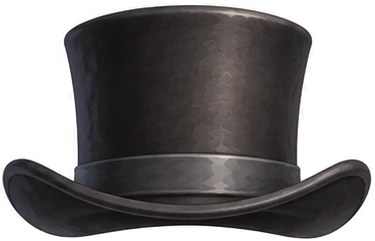
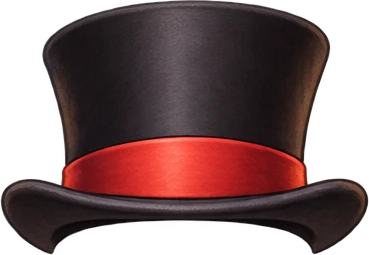
Replace hats with a redo that fixes head-coverage sizing
New art from a revised brief that gave the generator explicit measurements
(head width = ~2.3-2.5x eye-spacing) rather than vague 'cover the head'
language, plus the reference bird image to work from.

Sizing changed from the old dual width/height cap to a single fixed
width (60 units) matching the bird's actual measured head width, centred
on the real eye-centre x-position - every hat now sized consistently
against the head it's actually worn on, not against its own arbitrary
aspect ratio. Fixes the Ski Hat and Cozy Beanie specifically, which
previously sat like a small pom-pom on the crown instead of covering the
head ear-to-ear - both now have visibly wider coverage in the new art
(the beanie's/ski hat's own brim is wider) and read correctly at the new
sizing.

No hats needed the back-layer split (none show back-of-hat geometry at
this front-on angle), so no layering changes needed this round.

Verified all 12 individually against the real bird art before pushing.

diff --git a/accessories.py b/accessories.py
@@ -42,7 +42,7 @@ ACCESSORIES = {
         "cost": 20,
         "category": "hats",
         "tile_viewbox": "26 -3 48 34",
-        "svg": '<g transform="rotate(-8 50 26)"><image xlink:href="/static/accessories/hat_top_hat.webp" href="/static/accessories/hat_top_hat.webp" x="25.39" y="-1" width="49.23" height="31.64"/></g>',
+        "svg": '<g transform="rotate(-8 50 26)"><image xlink:href="/static/accessories/hat_top_hat.webp" href="/static/accessories/hat_top_hat.webp" x="21.73" y="-1" width="60" height="41.46"/></g>',
     },
     "golden_crown": {
         "name": "Golden Crown",
@@ -50,7 +50,7 @@ ACCESSORIES = {
         "cost": 75,
         "category": "hats",
         "tile_viewbox": "25 -3 50 34",
-        "svg": '<g transform="rotate(6 50 26)"><image xlink:href="/static/accessories/hat_golden_crown.webp" href="/static/accessories/hat_golden_crown.webp" x="23.86" y="-1" width="52.27" height="31.64"/></g>',
+        "svg": '<g transform="rotate(6 50 26)"><image xlink:href="/static/accessories/hat_golden_crown.webp" href="/static/accessories/hat_golden_crown.webp" x="21.73" y="-1" width="60" height="46.31"/></g>',
     },
     "flower_crown": {
         "name": "Flower Crown",
@@ -58,7 +58,7 @@ ACCESSORIES = {
         "cost": 20,
         "category": "hats",
         "tile_viewbox": "15 -3 70 34",
-        "svg": '<g transform="rotate(-5 50 26)"><image xlink:href="/static/accessories/hat_flower_crown.webp" href="/static/accessories/hat_flower_crown.webp" x="13.18" y="-1" width="73.64" height="31.64"/></g>',
+        "svg": '<g transform="rotate(-5 50 26)"><image xlink:href="/static/accessories/hat_flower_crown.webp" href="/static/accessories/hat_flower_crown.webp" x="21.73" y="-1" width="60" height="32.77"/></g>',
     },
     "deerstalker_hat": {
         "name": "Deerstalker Hat",
@@ -66,7 +66,7 @@ ACCESSORIES = {
         "cost": 20,
         "category": "hats",
         "tile_viewbox": "25 -3 50 34",
-        "svg": '<g transform="rotate(-6 50 26)"><image xlink:href="/static/accessories/hat_deerstalker_hat.webp" href="/static/accessories/hat_deerstalker_hat.webp" x="24.78" y="-1" width="50.44" height="31.64"/></g>',
+        "svg": '<g transform="rotate(-6 50 26)"><image xlink:href="/static/accessories/hat_deerstalker_hat.webp" href="/static/accessories/hat_deerstalker_hat.webp" x="21.73" y="-1" width="60" height="42.61"/></g>',
     },
     "baseball_cap": {
         "name": "Baseball Cap",
@@ -74,7 +74,7 @@ ACCESSORIES = {
         "cost": 10,
         "category": "hats",
         "tile_viewbox": "27 -3 46 34",
-        "svg": '<g transform="rotate(-9 50 26)"><image xlink:href="/static/accessories/hat_baseball_cap.webp" href="/static/accessories/hat_baseball_cap.webp" x="27.16" y="-1" width="45.67" height="31.64"/></g>',
+        "svg": '<g transform="rotate(-9 50 26)"><image xlink:href="/static/accessories/hat_baseball_cap.webp" href="/static/accessories/hat_baseball_cap.webp" x="21.73" y="-1" width="60" height="37.72"/></g>',
     },
     "sun_hat": {
         "name": "Sun Hat",
@@ -82,7 +82,7 @@ ACCESSORIES = {
         "cost": 20,
         "category": "hats",
         "tile_viewbox": "18 -3 64 34",
-        "svg": '<g transform="rotate(5 50 26)"><image xlink:href="/static/accessories/hat_sun_hat.webp" href="/static/accessories/hat_sun_hat.webp" x="16.66" y="-1" width="66.67" height="31.64"/></g>',
+        "svg": '<g transform="rotate(5 50 26)"><image xlink:href="/static/accessories/hat_sun_hat.webp" href="/static/accessories/hat_sun_hat.webp" x="21.73" y="-1" width="60" height="29.63"/></g>',
     },
     "party_hat": {
         "name": "Party Hat",
@@ -90,7 +90,7 @@ ACCESSORIES = {
         "cost": 10,
         "category": "hats",
         "tile_viewbox": "36 -3 28 34",
-        "svg": '<g transform="rotate(9 50 26)"><image xlink:href="/static/accessories/hat_party_hat.webp" href="/static/accessories/hat_party_hat.webp" x="36.73" y="-1" width="26.55" height="31.64"/></g>',
+        "svg": '<g transform="rotate(9 50 26)"><image xlink:href="/static/accessories/hat_party_hat.webp" href="/static/accessories/hat_party_hat.webp" x="21.73" y="-1" width="60" height="62.53"/></g>',
     },
     "wizard_hat": {
         "name": "Wizard Hat",
@@ -98,7 +98,7 @@ ACCESSORIES = {
         "cost": 75,
         "category": "hats",
         "tile_viewbox": "27 -3 46 34",
-        "svg": '<g transform="rotate(-7 50 26)"><image xlink:href="/static/accessories/hat_wizard_hat.webp" href="/static/accessories/hat_wizard_hat.webp" x="26.99" y="-1" width="46.02" height="31.64"/></g>',
+        "svg": '<g transform="rotate(-7 50 26)"><image xlink:href="/static/accessories/hat_wizard_hat.webp" href="/static/accessories/hat_wizard_hat.webp" x="21.73" y="-1" width="60" height="43.36"/></g>',
     },
     "pirate_hat": {
         "name": "Pirate Hat",
@@ -106,7 +106,7 @@ ACCESSORIES = {
         "cost": 40,
         "category": "hats",
         "tile_viewbox": "24 -3 52 34",
-        "svg": '<g transform="rotate(8 50 26)"><image xlink:href="/static/accessories/hat_pirate_hat.webp" href="/static/accessories/hat_pirate_hat.webp" x="23.57" y="-1" width="52.86" height="31.64"/></g>',
+        "svg": '<g transform="rotate(8 50 26)"><image xlink:href="/static/accessories/hat_pirate_hat.webp" href="/static/accessories/hat_pirate_hat.webp" x="21.73" y="-1" width="60" height="43.22"/></g>',
     },
     "explorer_helmet": {
         "name": "Explorer Helmet",
@@ -114,7 +114,7 @@ ACCESSORIES = {
         "cost": 40,
         "category": "hats",
         "tile_viewbox": "26 -3 48 34",
-        "svg": '<g transform="rotate(-6 50 26)"><image xlink:href="/static/accessories/hat_explorer_helmet.webp" href="/static/accessories/hat_explorer_helmet.webp" x="25.1" y="-1" width="49.8" height="31.64"/></g>',
+        "svg": '<g transform="rotate(-6 50 26)"><image xlink:href="/static/accessories/hat_explorer_helmet.webp" href="/static/accessories/hat_explorer_helmet.webp" x="21.73" y="-1" width="60" height="37.42"/></g>',
     },
     "ski_hat": {
         "name": "Ski Hat",
@@ -122,7 +122,7 @@ ACCESSORIES = {
         "cost": 20,
         "category": "hats",
         "tile_viewbox": "34 -3 32 34",
-        "svg": '<g transform="rotate(7 50 26)"><image xlink:href="/static/accessories/hat_ski_hat.webp" href="/static/accessories/hat_ski_hat.webp" x="33.98" y="-1" width="32.04" height="31.64"/></g>',
+        "svg": '<g transform="rotate(7 50 26)"><image xlink:href="/static/accessories/hat_ski_hat.webp" href="/static/accessories/hat_ski_hat.webp" x="21.73" y="-1" width="60" height="54.28"/></g>',
     },
     "cozy_beanie": {
         "name": "Cozy Beanie",
@@ -130,7 +130,7 @@ ACCESSORIES = {
         "cost": 10,
         "category": "hats",
         "tile_viewbox": "34 -3 32 34",
-        "svg": '<g transform="rotate(-4 50 26)"><image xlink:href="/static/accessories/hat_cozy_beanie.webp" href="/static/accessories/hat_cozy_beanie.webp" x="33.91" y="-1" width="32.17" height="31.64"/></g>',
+        "svg": '<g transform="rotate(-4 50 26)"><image xlink:href="/static/accessories/hat_cozy_beanie.webp" href="/static/accessories/hat_cozy_beanie.webp" x="21.73" y="-1" width="60" height="48.65"/></g>',
     },
     "cosy_scarf": {
         "name": "Cosy Scarf",
